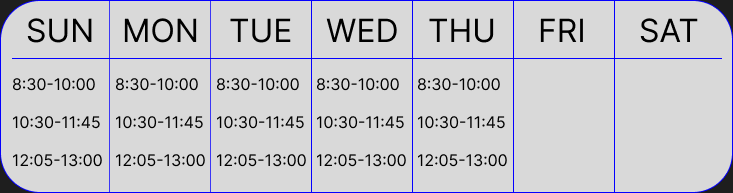
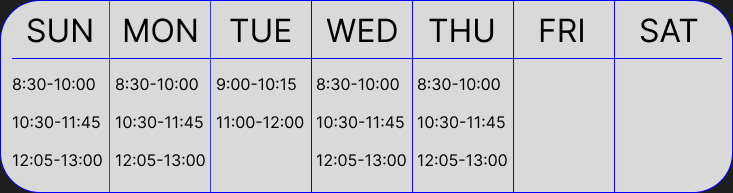
правки и более точное расписание

Changed region(s): [[0.3001, 0.7772, 0.4202, 0.8705], [0.3001, 0.5907, 0.4202, 0.6839], [0.3001, 0.4041, 0.4202, 0.4663]]

diff --git a/index.js b/index.js
@@ -53,7 +53,7 @@ const waitHomework = async (chatId, userId) => {
 const translateMessage = async (chatId, text) => {
 	const lang = langDefine.franc(text)
 	if (!text)
-		return bot.sendMessage(chatId, 'מצטער, אך לא ציינת טקסט\n\nSorry, but you didn\'t specify any text\n\nИзвините, но вы не указали текст\n\nDésolé, vous n\'avez pas spécifié de texte')
+		return bot.sendMessage(chatId, 'סליחה, לא ציינת את הטקסט. כתוב אותו אחרי הפקודה /translate באותה הודעה\nSorry, you didn\'t specify the text. Write it after the /translate command in the same message\nИзвините, вы не указали текст. Напишите его после команды /translate в том же сообщении\nDésolé, vous n\'avez pas précisé le texte. Écrivez-le après la commande /translate dans le même message')
 	if (![ 'rus', 'eng', 'heb', 'fra' ].includes(lang))
 		return bot.sendMessage(chatId, 'מצטער, אני לא מבין באיזו שפה אתה כותב, נסה לכתוב הודעה מורכבת יותר\n\nSorry, I don\'t understand which language you\'re writing in. Try writing a more detailed message\n\nИзвините, я не понимаю, на каком языке вы пишете. Попробуйте написать более развернутое сообщение\n\nDésolé, je ne comprends pas dans quelle langue vous écrivez. Essayez d\'écrire un message plus détaillé')
 
@@ -65,17 +65,17 @@ const translateMessage = async (chatId, text) => {
 	])).join`\n\n`)
 }
 
-const start = async ({ chat }) => await bot.sendMessage(chat.id, 'שלום, אני בוט של הקבוצה הטובה ביותר באולפן')
+const start = async ({ chat }) => await bot.sendMessage(chat.id, 'שלום, אני בוט של הקבוצה הטובה ביותר באולפן\n\nHello, I am a bot from the best group in the ulpan.\n\nПривет, я бот самой лучшей группы в ульпане.\n\nSalut, je suis un bot du meilleur groupe à l\'oulpan.')
 const help = async ({ chat }) => await bot.sendMessage(chat.id, '/help:\nיספר לך על כל הפקודות שהבוט יכול לבצע\nWill tell you about all the commands that the bot can execute\nРасскажет тебе обо всех командах, которые может выполнить бот\nVous parler de toutes les commandes que le bot peut exécuter\n\n/sethomework:\nיזכור מטלה בית\nWill remember homework\nЗапомнит домашнее задание\nSe souviendra du devoir\n\n/gethomework:\nיספר מה הועמד היום\nWill tell what was assigned today\nРасскажет, что задали на сегодня\nDira ce qui a été assigné aujourd\'hui\n\n/timetable:\nיציג את מערכת השעות של הלימודים באולפן\nWill display the timetable of classes in the ulpan\nПокажет расписание занятий в ульпане\nAffichera l\'horaire des cours à l\'oulpan\n\n/translate:\nהוסף טקסט לאחר הפקודה והבוט יתרגם אותו לעברית, אנגלית, צרפתית ורוסית (הבוט יכול לא להבין הודעה קצרה מאוד או הודעה בשפה אחרת, נסה לכתוב הודעה מורכבת יותר, ונסה לכתוב בעברית במידה רבה)\nAdd text after the command and the bot will translate it to Hebrew, English, French, and Russian (the bot may not understand very short messages or messages in another language, try writing a more complex message, and try to write in Hebrew as much as possible)\nДобавьте текст после команды, и бот переведет его на иврит, английский, французский и русский (бот может не понять очень короткие сообщения или сообщения на других языках, попробуйте написать более сложное сообщение, и старайтесь писать на иврите насколько это возможно)\nAjoutez du texte après la commande et le bot le traduira en hébreu, anglais, français et russe (le bot peut ne pas comprendre les messages très courts ou les messages dans d\'autres langues, essayez d\'écrire un message plus complexe et essayez d\'écrire en hébreu autant que possible)')
 const timetable = async ({ chat }) => await bot.sendPhoto(chat.id, './assets/timetable.png')
 
 const init = () => {
 	bot.setMyCommands([
-		{ command: '/help', description: 'מידע מפורט על צוותים' },
-		{ command: '/sethomework', description: 'הגדרת שאלת בית' },
-		{ command: '/gethomework', description: 'בדוק שאלת בית' },
-		{ command: '/timetable', description: 'בדוק לוח זמנים' },
-		{ command: '/translate', description: 'תרגם הודעה' }
+		{ command: '/help', description: 'Подробная информация о командах' },
+		{ command: '/sethomework', description: 'Установить домашнее задание' },
+		{ command: '/gethomework', description: 'Проверить домашнее задание' },
+		{ command: '/timetable', description: 'Проверить расписание' },
+		{ command: '/translate', description: 'Перевести сообщение' }
 	])
 
 	bot.onText(/\/start/, start)
